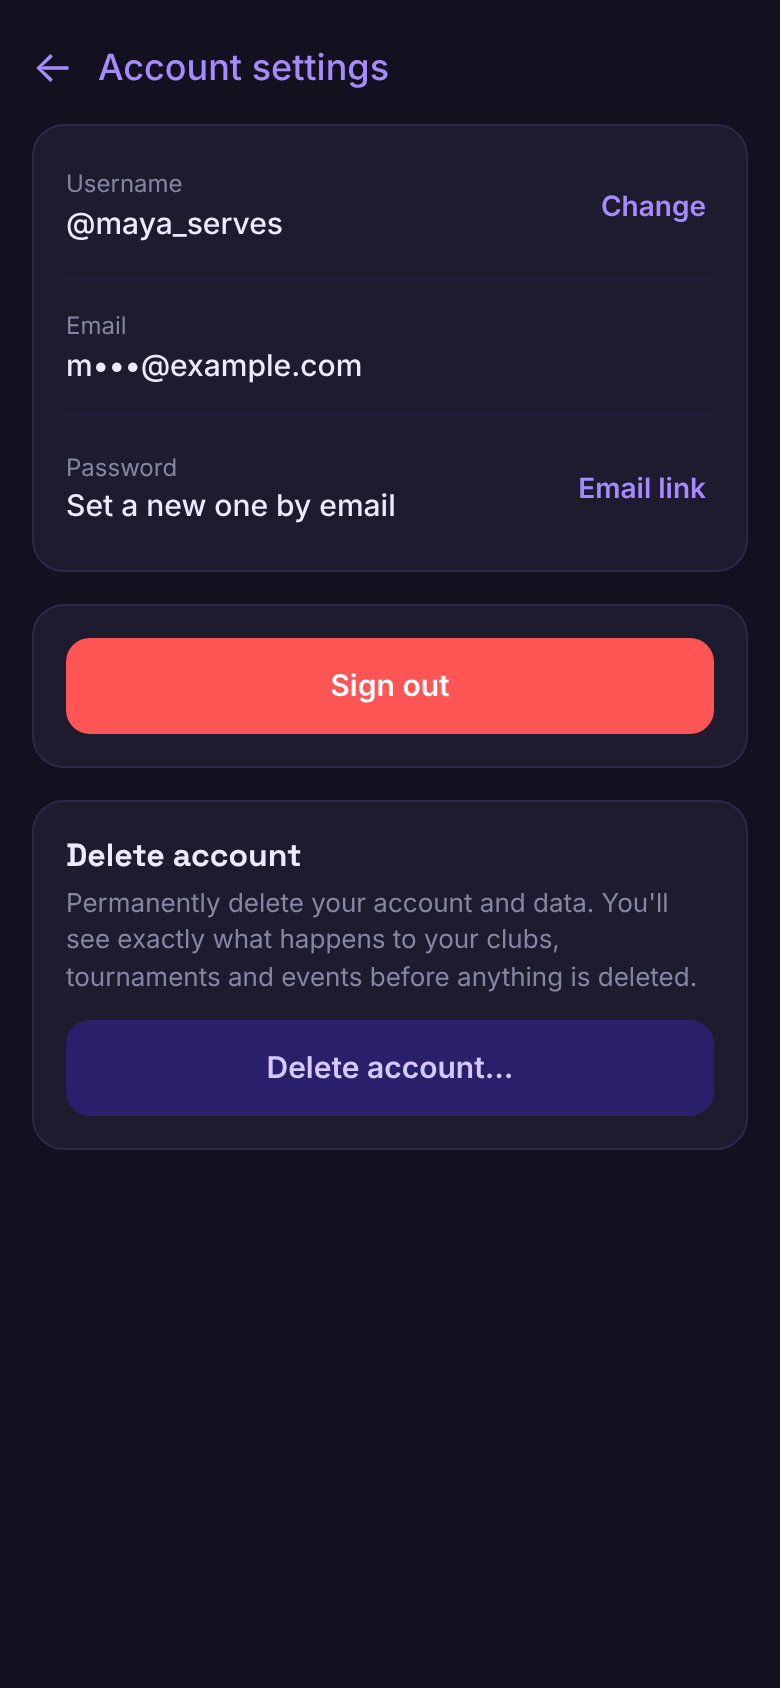
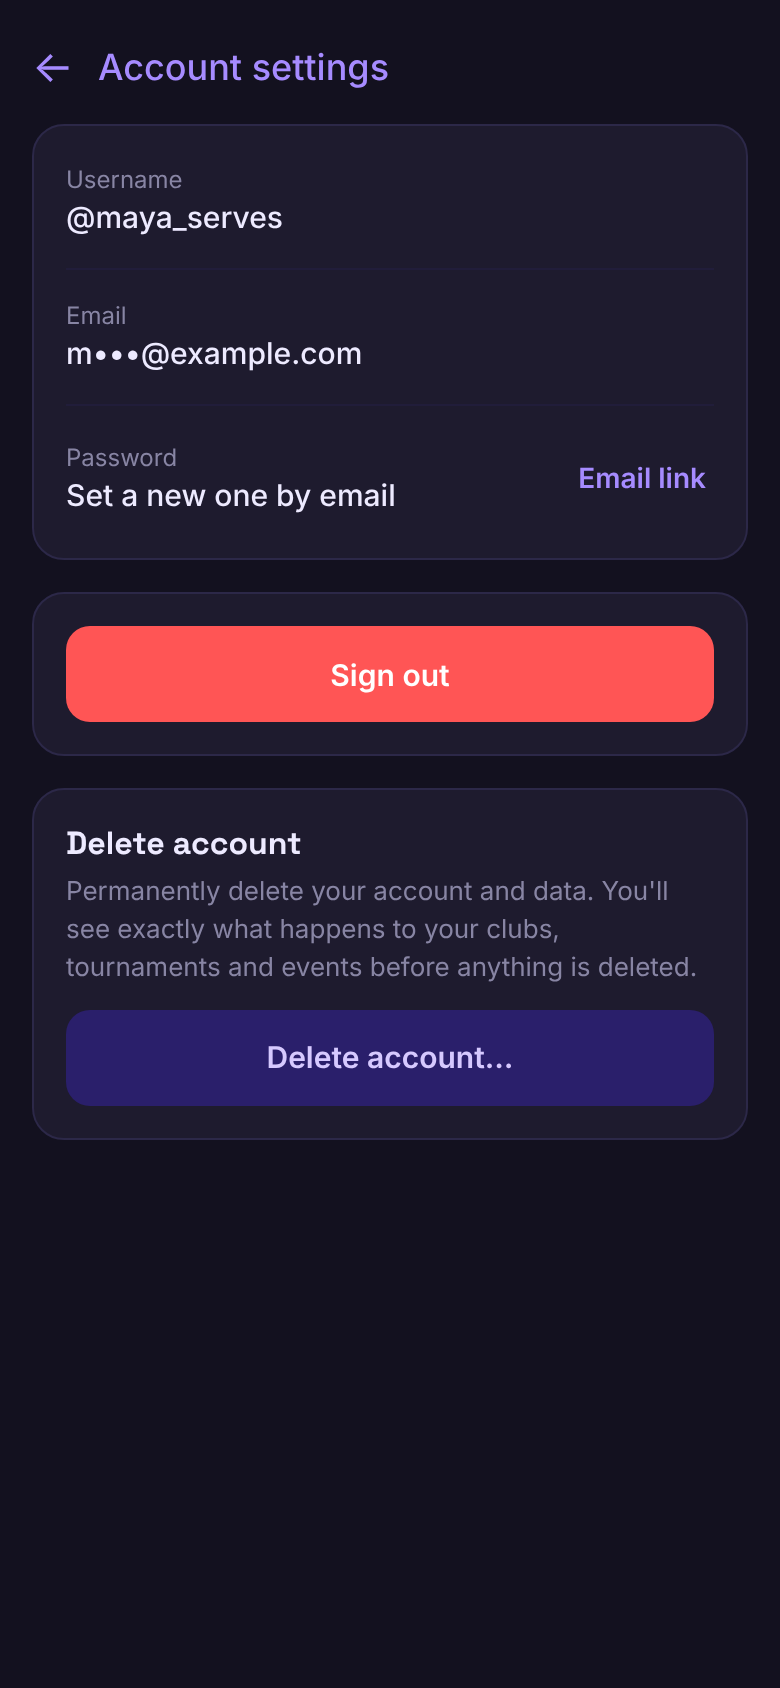
Ideas 2026-11-09: idea 1 without username change

diff --git a/ideas/2026-11-09.md b/ideas/2026-11-09.md
@@ -3,27 +3,27 @@
 Today's three: end-user experience, latency, testing. The 11-08 batch included a competitor gap, so today has no new feature or competitor gap.
 
 <!--IDEA-->
-## 1. Account basics that work: a password reset that lands where it should, and changing your username
+## 1. Account basics that work: a password reset that lands where it should
 
-**Bucket:** end-user-experience · **Size:** M · **Depends on:** nothing open. Fills the "Coming soon" card on Settings → Account.
+**Bucket:** end-user-experience · **Size:** S · **Depends on:** nothing open. Fills the "Coming soon" card on Settings → Account.
 
-**Pitch:** A reset link always opens the "set a new password" form, an expired one says so, and players can finally change their username from Account.
+**Pitch:** A reset link always opens the "set a new password" form, an expired one says so, and Account shows your sign-in details. Usernames stay fixed once chosen (Bryan's call at review).
 
 ### Why
 
-- These are the only two real requests in `feedback_submissions` on live (the other two of four are test entries): one says clicking reset password "just logs me in", one asks to change their username.
-- **Web link can miss the form.** `app/(auth)/login.tsx:94` asks Supabase to return to `Linking.createURL('/(auth)/reset-password')`. If that URL is not on the Auth allow-list, [Supabase sends the person to the Site URL](https://supabase.com/docs/guides/auth/redirect-urls), and the recovery session is created on the home page. Only `reset-password.tsx` listens for `PASSWORD_RECOVERY`, so they arrive signed in with no form. I can't read the Auth allow-list with the tools here. All 5 accounts that ever asked for a reset have signed in since (consistent with the report, not proof).
+- One of the only two real requests in `feedback_submissions` on live (the other two of four are test entries) says clicking reset password "just logs me in".
+- **Web link can miss the form.** `app/(auth)/login.tsx:94` asks Supabase to return to `Linking.createURL('/(auth)/reset-password')`. If that URL is not on the Auth allow-list, [Supabase sends the person to the Site URL](https://supabase.com/docs/guides/auth/redirect-urls), and the recovery session is created on the home page. Only `reset-password.tsx` listens for `PASSWORD_RECOVERY`, so they arrive signed in with no form. The Auth allow-list couldn't be read with the tools used here. All 5 accounts that ever asked for a reset have signed in since (consistent with the report, not proof).
 - **Native link cannot work.** The link is `vteam://…`, `detectSessionInUrl` is off on native (`lib/supabase.ts:48`), and the only code that reads tokens from a URL is the social sign-in flow (`lib/socialAuth.ts`). The screen waits forever.
 - **Expired links hang.** Run against the mocked web export, `/reset-password#error_code=otp_expired` stays on "verifying link…" with no timeout (before screenshot below).
-- Settings → Account (`settings/account.tsx`, 71 lines) says "Coming soon" and there is no username field anywhere after sign-up.
-- The `profiles` update policy limits rows, not columns, so a client can already set any free username through the API with no format rule. `register.tsx:68` checks availability with `.ilike`, where `_` is a wildcard: `a_b` is reported taken if `axb` exists.
+- Settings → Account (`settings/account.tsx`, 71 lines) says "Coming soon".
+- Usernames are meant to be permanent, but the `profiles` update policy limits rows, not columns, so a client can change its username through the API today.
+- `register.tsx:68` checks availability with `.ilike`, where `_` is a wildcard: `a_b` is reported taken if `axb` exists. All 34 usernames are lowercase and the input is lowercased, so `.eq` is enough.
 
 ### User stories
 
 - As a player who forgot my password, I tap the email link on any device and get the new password form.
 - As a player with an old link, I'm told it expired and can send a new one right there.
-- As a player, I can change my username from Account and see if a name is free before saving.
-- As a player, I know a former username of mine can't be grabbed by someone else right away.
+- As a player, I can see my username and email on Account and get a password reset email from there.
 
 ### Mocks
 
@@ -31,7 +31,6 @@ Account today, and after (fictional people):
 
 ![Before](https://github.com/bryanw121/vteam/raw/ideas/ideas/assets/2026-11-09/account-1-before.png)
 ![After](https://github.com/bryanw121/vteam/raw/ideas/ideas/assets/2026-11-09/account-2-after.png)
-![Change username](https://github.com/bryanw121/vteam/raw/ideas/ideas/assets/2026-11-09/account-3-sheet.png)
 ![Desktop](https://github.com/bryanw121/vteam/raw/ideas/ideas/assets/2026-11-09/account-5-desktop.png)
 
 Reset: the form every valid link reaches, then an expired link today and after:
@@ -49,12 +48,10 @@ Reset: the form every valid link reaches, then an expired link today and after:
 - `reset-password.tsx`: new expired state with email field; after success `signOut({ scope: 'others' })`. A 10 s timeout replaces the endless "verifying".
 - Manual: add `https://vteamvolleyball.com/reset-password` to the Auth allow-list.
 
-**Username**
-- `settings/account.tsx` replaces "Coming soon" with a Username / Email / Password card (`shared.card`). Password's **Email link** reuses the reset email. The screen moves to `useMyProfile` data, dropping its effect-based read.
-- New `components/profile/ChangeUsernameSheet.tsx` (`BottomSheet`): debounced availability from `username_available`, save via `change_username`, invalidates `profile` keys.
-- Rule for new names: `^[a-z0-9_]{3,20}$`. The 5 of 34 existing usernames that don't fit keep working until changed. `register.tsx` uses the same check, fixing the wildcard bug.
-- Friends, rosters and chat use ids, so they follow automatically. Text `@mentions` written earlier are resolved by name (`CommentRow.tsx`, `chat/[id].tsx`) and stop linking; the sheet says so.
-- Guests never reach Account (already in `authGate`). Desktop uses the same card inside `ScreenContainer`; native and mobile web use the sheet with 44pt targets and 16px inputs.
+**Account**
+- `settings/account.tsx` replaces "Coming soon" with a card: Username (read only), Email, Password with **Email link**, which sends the same reset email. The screen moves to `useMyProfile` data, dropping its effect-based read.
+- `register.tsx`: availability check uses `.eq`, fixing the wildcard bug.
+- Guests never reach Account (already in `authGate`). Desktop uses the same card inside `ScreenContainer`; native and mobile web keep 44pt targets.
 
 ### Backend
 
@@ -64,7 +61,7 @@ sequenceDiagram
   participant App
   participant Auth as Supabase Auth
   participant RPC as PostgREST / RLS
-  participant DB as change_username()
+  participant DB as profiles_guard_username
   P->>App: Forgot password
   App->>Auth: resetPasswordForEmail(redirect https://…/reset-password)
   Auth-->>P: Email with link
@@ -74,34 +71,28 @@ sequenceDiagram
   App->>App: Route to /reset-password from any path
   P->>App: New password
   App->>Auth: updateUser + signOut(others)
-  P->>App: Change username
-  App->>RPC: rpc username_available(name)
-  RPC-->>App: true / false
-  App->>RPC: rpc change_username(name)
-  RPC->>DB: Check format, 30-day cooldown, not held
-  DB->>DB: set_config vteam.username_change, update profiles, insert username_changes
-  DB-->>App: new username or error code
+  Note over App,DB: A client trying to rename itself
+  App->>RPC: PATCH profiles set username
+  RPC->>DB: BEFORE UPDATE OF username
+  DB-->>App: Rejected
 ```
 
 **Model changes**
 
 | Object | Change | Notes (who can read/write) |
 |---|---|---|
-| `username_changes` | New table: `user_id` (FK profiles, ON DELETE CASCADE), `old_username`, `new_username`, `changed_at` | Owner SELECT. No client writes. Rows drive the cooldown and the 30-day hold |
-| `username_available(text)` | New function, SECURITY DEFINER | anon + authenticated. Boolean only; exact lowercase match, includes held names |
-| `change_username(text)` | New function, SECURITY DEFINER | authenticated only. Returns `invalid`, `taken`, `cooldown` |
-| `profiles_guard_username` | BEFORE UPDATE OF username trigger | Rejects unless the function set `vteam.username_change` locally. Sign-up is INSERT, unaffected. No deployed client writes username (checked), so expand-safe |
+| `profiles_guard_username` | BEFORE UPDATE OF username trigger | Raises when the username changes and `current_user` is `authenticated` or `anon`. Sign-up is an INSERT, unaffected. No client code writes username, so expand-safe. An admin can still rename someone in SQL |
 
-Migration sketch: create table with RLS and the policy, the two functions with `search_path` fixed and `REVOKE EXECUTE FROM public`, then the trigger. `.down.sql`: drop trigger, functions, table in that order.
+Migration sketch: create the trigger function with `search_path` fixed, then the trigger. `.down.sql`: drop trigger, then function.
 
-RLS expectations for `e2e/rls.spec.ts`: signed-in user cannot PATCH their own `username`; anon cannot call `change_username`; nobody inserts into `username_changes` directly. New row in `e2e/rls/matrix.ts`.
+RLS expectations for `e2e/rls.spec.ts`: a signed-in user cannot PATCH their own `username`, and other columns of their own row still update.
 
 ### Test plan
 
-- Unit: `utils/recoveryLink` (recovery, expired, ordinary hash), username format, sheet states.
+- Unit: `utils/recoveryLink` (recovery, expired, ordinary hash).
 - RLS (`api` shard): expectations above.
-- E2E (`other` shard): `login.guest.spec.ts` opens `/#…type=recovery` and an expired link with Auth routed; `profile.spec.ts` drives the sheet with the RPC routed, because `e2ebot`'s real username must not change.
-- Shots: add `settings-account-change-username` and `reset-password-expired` to `SCREENS`; `settings-account` already exists.
+- E2E (`other` shard): `login.guest.spec.ts` opens `/#…type=recovery` and an expired link with Auth routed; `profile.spec.ts` checks the Account card.
+- Shots: add `reset-password-expired` to `SCREENS`; `settings-account` already exists.
 
 ### Acceptance criteria
 
@@ -109,33 +100,30 @@ RLS expectations for `e2e/rls.spec.ts`: signed-in user cannot PATCH their own `u
 - [ ] Native users get an https link and can finish in the browser
 - [ ] An expired or used link shows the expired state with a resend, within 10 s at most
 - [ ] Setting a new password signs out other devices
-- [ ] Account shows username, email and password rows; "Coming soon" is gone
-- [ ] A username can be changed once per 30 days and the old one is held for 30 days
+- [ ] Account shows username (read only), email and password rows; "Coming soon" is gone
 - [ ] A direct API update of `username` is rejected
-- [ ] Sign-up uses the same availability check, with no wildcard matches
+- [ ] The sign-up availability check has no wildcard matches
 
 ### Pros and cons
 
 **Pros**
-- Answers the only two real pieces of user feedback in the table.
 - Removes a dead end at the worst moment: someone locked out of their account.
-- Closes a gap where any client can set any username through the API.
+- Answers a real user report.
+- Makes "usernames are permanent" true in the database, not only in the UI.
 - The https link removes a whole class of native deep-link problems.
 - Replaces a "Coming soon" card that makes the app look unfinished.
 
 **Cons**
 - 5 people have ever asked for a reset, so the volume is small.
 - Native users leave the app to reset, which is slightly clumsier than an in-app form.
-- Username changes break old `@mention` links and anyone's memory of the old handle.
-- The new table and guard trigger add one more thing `delete_account` and the RLS matrix must cover.
+- The player who asked to change their username stays unanswered.
 - The allow-list step lives in the dashboard, outside migrations, and is easy to forget on a new project.
 
-**Verdict:** Pros win: small, and it fixes real reports where the failure locks people out.
+**Verdict:** Pros win: small, and it fixes a failure that locks people out.
 
 ### Open questions
 
-- 30-day cooldown and 30-day hold: right lengths?
-- The feedback also says first and last name are "just for profile". Should people get a separate display name, or is the current real-name-first display enough? Left out here.
+- None blocking. Separate from this: the same feedback says first and last name are "just for profile"; a display name is left out.
 
 <!--IDEA-->
 ## 2. Profile opens with 16 requests, not 25: stop loading a tab nobody is looking at
